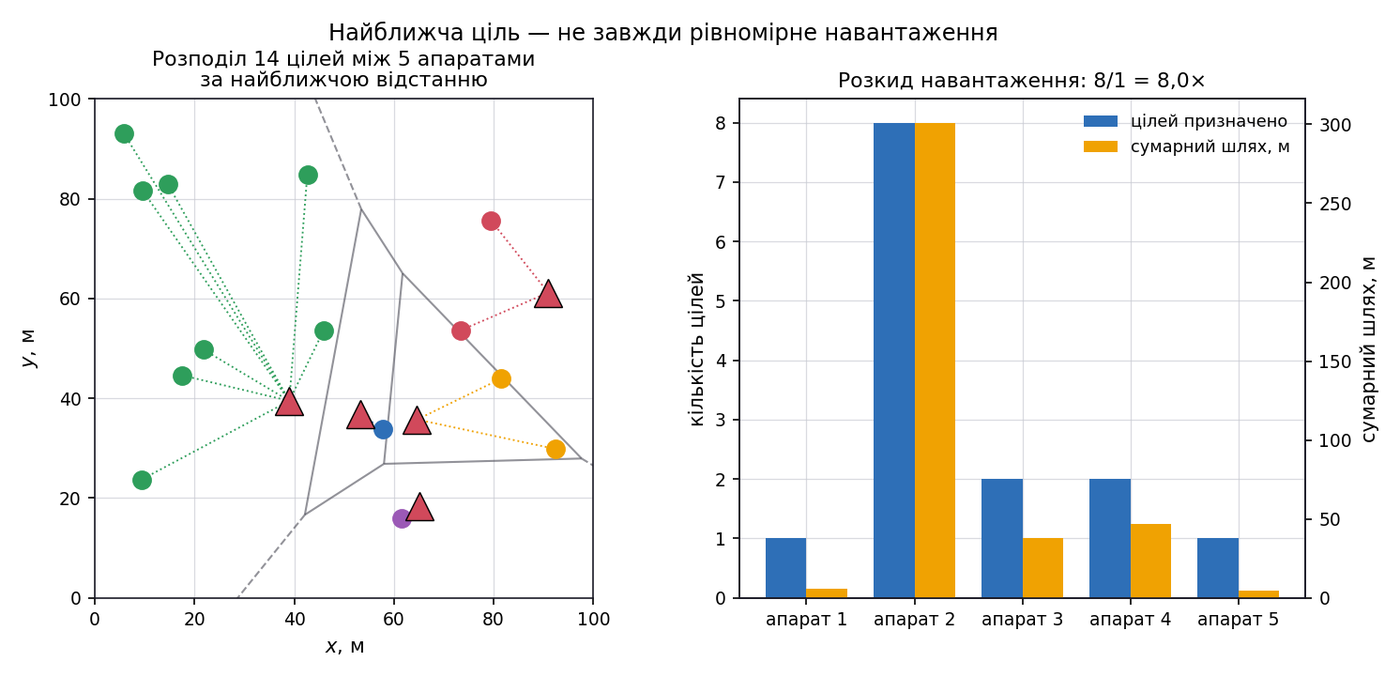
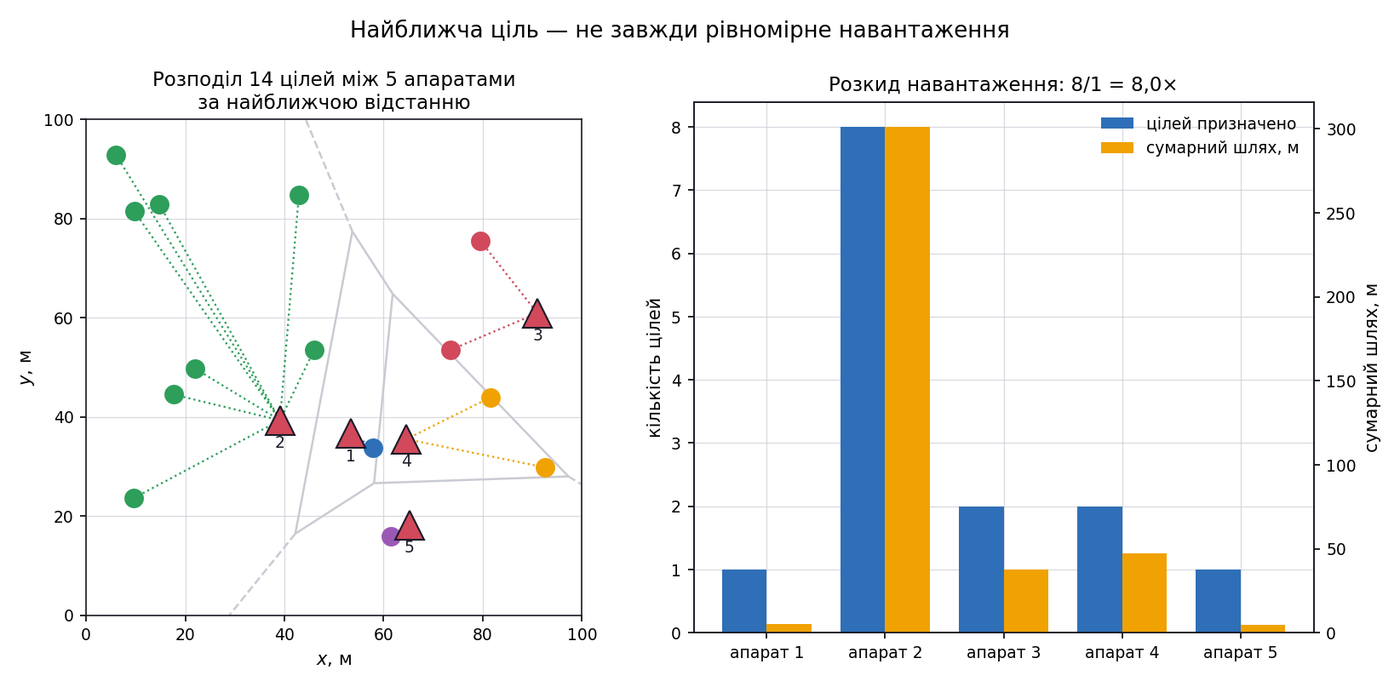
Рисунок розподілу цілей (модуль 10) — знову зі скриптом, без винятку в check_figs
Скрипт першої версії втрачено при відкаті; координати 5 апаратів і 14 цілей
відновлено з рисунка, gamma_course/viz/m08_allocation.py дає той самий розподіл
(1/8/2/2/1, розкид 8×). ALLOW у check_figs тепер порожній.

Claude-Session: https://claude.ai/code/session_01YKiEQ7DEaMDvjfRaea471B

diff --git a/tools/check_figs.py b/tools/check_figs.py
@@ -21,10 +21,8 @@ SITE = os.path.dirname(HERE)
 COURSE = os.path.join(os.path.dirname(SITE), "gamma_course")
 IMG = re.compile(r"^!\[[^\]]*\]\(RAWBASE/([\w.-]+)\)\s*$")
 
-# Власні рисунки, чий скрипт не зберігся (середовище відкочувалося), — з поясненням.
-ALLOW = {
-    "m08-task-allocation.png": "власний рисунок курсу; скрипт утрачено під час відкату середовища",
-}
+# Винятків немає: кожен власний рисунок малює скрипт у gamma_course/viz.
+ALLOW: dict[str, str] = {}
 
 
 def main():
